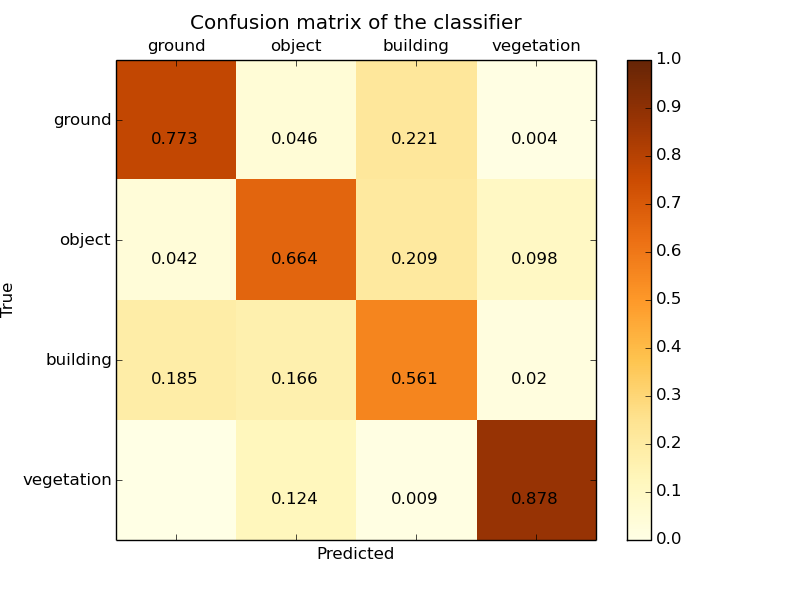
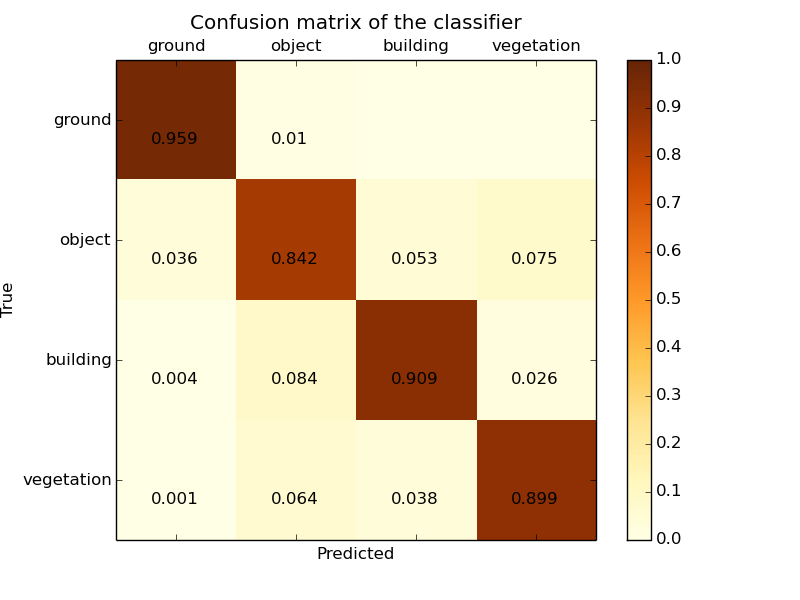
small changes

diff --git a/script/random_forest_classification.py b/script/random_forest_classification.py
@@ -13,6 +13,7 @@ import numpy as np ;
 from sklearn.ensemble import RandomForestClassifier ; 
 from sklearn.tree import DecisionTreeClassifier; 
 from sklearn import cross_validation ; 
+from sklearn.preprocessing import normalize
 #from sklearn import metrics ;  
 #from sklearn.feature_selection import RFECV ; 
 import pandas as pd; 
@@ -24,7 +25,11 @@ import matplotlib.pyplot as plt
  
 
 #parameters of the random forest
-n_estimator = 10 ;  
+n_estimator = 10 ; 
+
+labels=  np.zeros(6, dtype={'names':['class_id', 'class_name'], 'formats':['i4','a10']})  
+labels[:] =  [(0,"undef" ),(1,"other"),(2,"ground"),(3,"object"),(4,"building"),(5,"vegetation")]  
+  
     
 f1 = np.array([1,1,1,1,1,1,1,1,1,1,1,1,1,1,1,1,1,1,1,1,1,1,1,1,1,1,1,1,1,1]);
 f2 = np.array([4,6,8,4,4,4,2,4,4,4,4,4,4,4,4,4,2,3,4,4,4,4,4,4,4,4,4,8,5,8]);
@@ -91,8 +96,9 @@ for i ,(train, test)  in enumerate(kf_total) :
 
 grouped_result = result.groupby(["class_chosen"])  
 
+full_dataset = [] ; 
 grouped_proba = grouped_result['proba_chosen',"is_correct","ground_truth_class"]
-for name, group in grouped_proba :
+for i ,(name, group) in enumerate(grouped_proba) :
     #print(name)
     #print(group.sort(columns="proba_chosen" ).cumsum() )
     g2 = group.sort(columns="proba_chosen",ascending=False )
@@ -108,54 +114,34 @@ for name, group in grouped_proba :
     title("using prediction by descending confidence")
     ylim([-10,110]) 
     savefig('/media/sf_E_RemiCura/PROJETS/point_cloud/PC_in_DB/LOD_ordering_for_patches_of_points/result_rforest/test_output_'+str(name) +'_.png')
-    close() 
-
-g2[['new_index','proba_chosen','is_correct','result_prediction']]
-plot = g2.plot(x='new_index', y= 'result_prediction')
-xlabel("number_of_observations")
-ylabel("precision_of_prediction")
-title("using prediction by descending confidence")
-ylim([0,100]) 
-savefig('/tmp/test_output.pdf')
-close();
-
- 
-
-labels=  np.zeros(6, dtype={'names':['class_id', 'class_name'], 'formats':['i4','a10']}) 
-labels[clf.classes_]['class_name']
-labels[:] =  [(0,"undef" ),(1,"other"),(2,"ground"),(3,"object"),(4,"building"),(5,"vegetation")] 
-labels['class_name']
-
-labels_df = pd.DataFrame.from_records(labels, index = 'class_id' ) ; 
-labels_gt = labels_df.rename(columns={'class_name': 'ground_truth_class_name'} ) 
-labels_chosen = labels_df.rename(columns={'class_name': 'chosen_class_name'} )
-g2 = g2.join(labels_gt, on = 'ground_truth_class')
-g2 = g2.join(labels_chosen, on = 'class_chosen')
- 
- 
-classes_used = np.array(clf.classes_,dtype=[('class_id', np.int_) ])
- type(clf.classes_)
- 
-classes_used_df = pd.DataFrame(clf.classes_ ) 
-classes_used_df.columns = ['class_id'] ;
-classes_used_df = classes_used_df.set_index('class_id')
+    close()
+    if i == 1:
+        full_dataset = g2[('ground_truth_class','class_chosen')] ;
+    else : 
+        full_dataset = full_dataset.append( g2[('ground_truth_class','class_chosen')],ignore_index=True) ;
+        
 
 cm = confusion_matrix(g2['ground_truth_class'], g2['class_chosen']) 
+cm = cm * 1.0
+preprocessing.normalize(cm, norm='l1', axis=0)
+cm = cm/len(g2)
 fig = plt.figure()
 ax = fig.add_subplot(111)
-cax = ax.matshow(cm)
+cax = ax.matshow(cm,cmap = plt.get_cmap('YlOrBr'),vmin=0, vmax=1) 
 plt.title('Confusion matrix of the classifier')
-fig.colorbar(cax)
+fig.colorbar(cax, cmap = plt.get_cmap('YlOrBr') )
 ax.set_xticklabels([''] + list(labels[clf.classes_]['class_name']) )
 ax.set_yticklabels([''] + list(labels[clf.classes_]['class_name']) )
 plt.xlabel('Predicted')
 plt.ylabel('True')
+for i, cas in enumerate(cm):
+    for j, c in enumerate(cas):
+        if c>0:
+            plt.text(j-.2, i+.2, c, fontsize=14)
 fig.show()
 plt.savefig('/media/sf_E_RemiCura/PROJETS/point_cloud/PC_in_DB/LOD_ordering_for_patches_of_points/result_rforest/test_output_confusion_matrix_.png')
 plt.close();
-
-cm = confusion_matrix(y_test, pred, labels)
-print(cm)
+ 
 
 cax = ax.matshow(cm)
 pl.title('Confusion matrix of the classifier')
